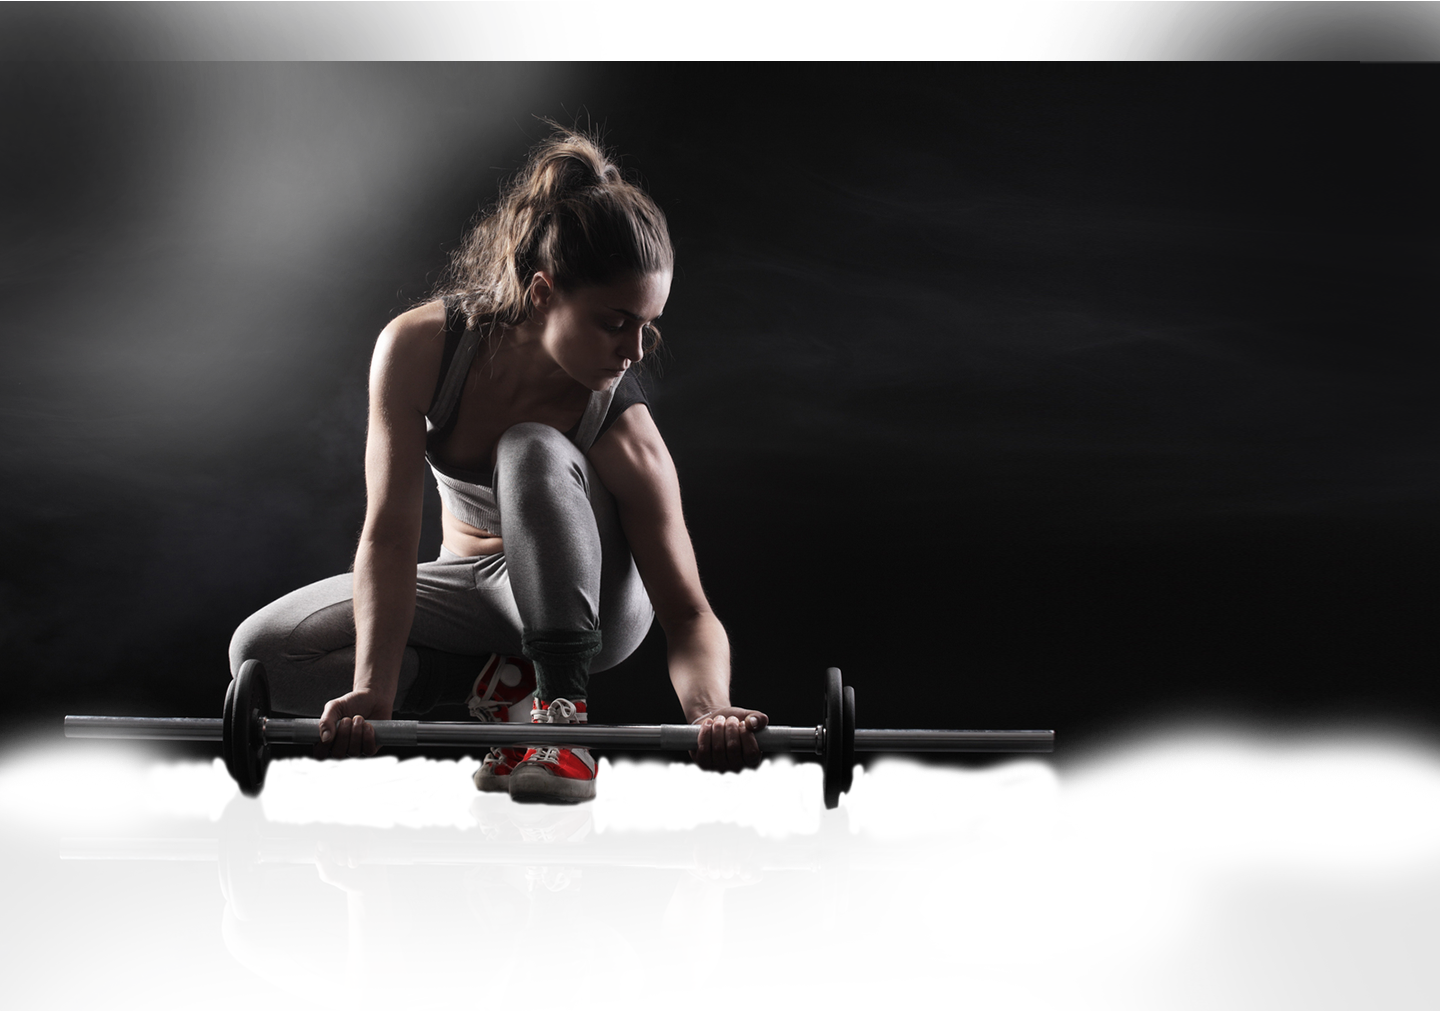
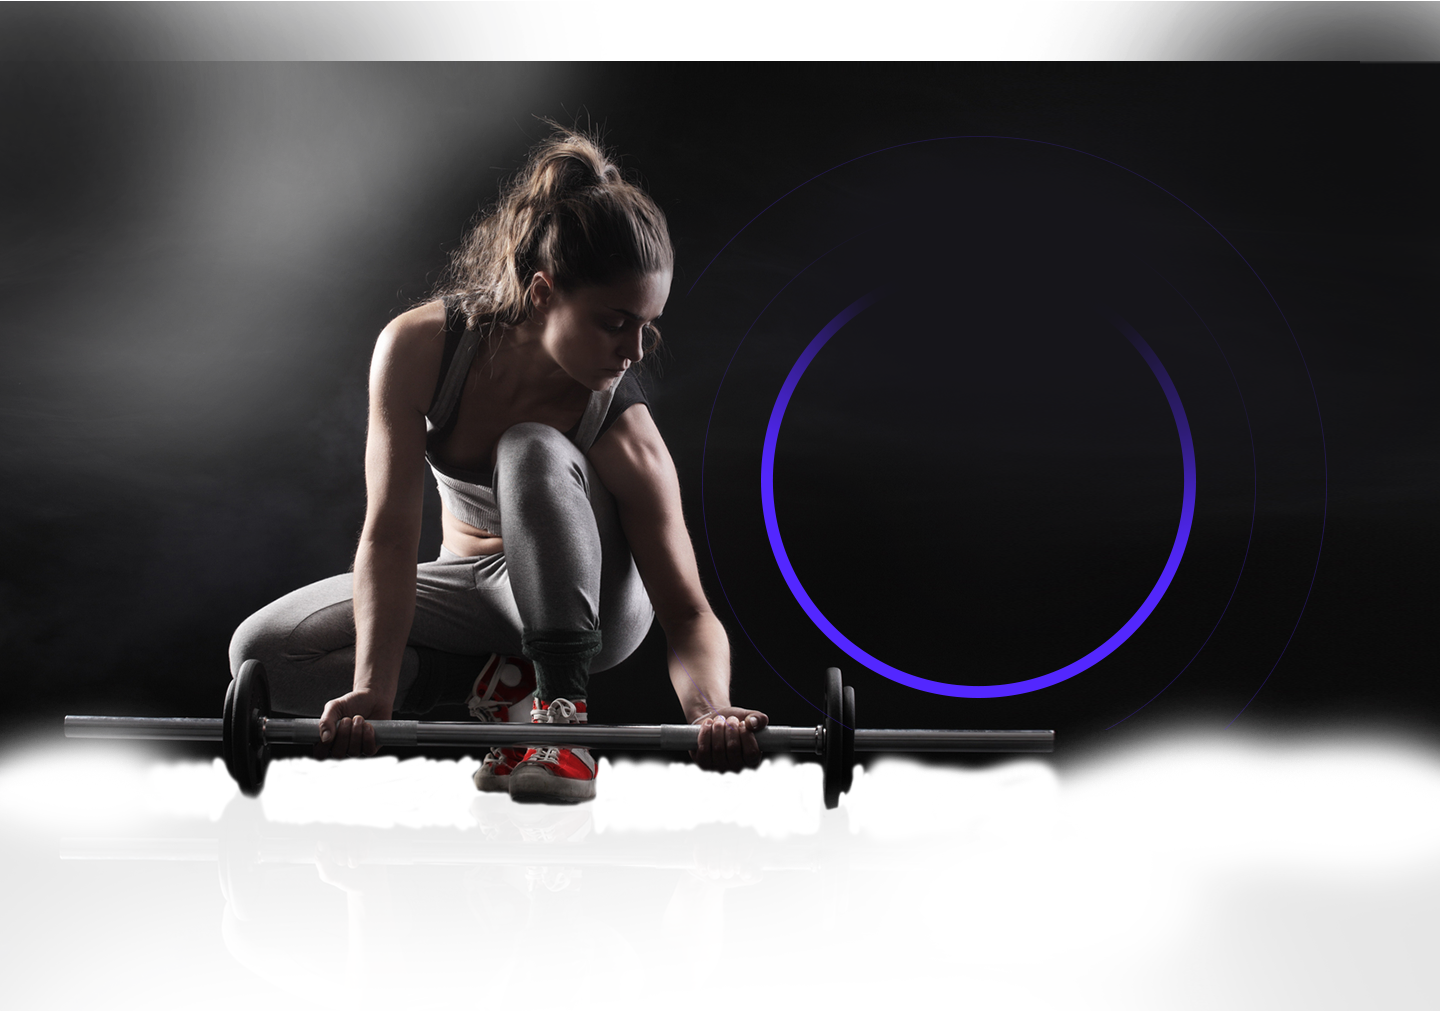
commit

diff --git a/app/sass/main.sass b/app/sass/main.sass
@@ -3,7 +3,7 @@
 @import "libs"
 
 ::placeholder
-	color: #666
+	color: #EDEDED
 
 ::selection
 	background-color: $accent
@@ -45,7 +45,6 @@ b, strong
 
 // style
 
-
 .first__screen
 	width: 100%
 	height: 100%
@@ -54,6 +53,8 @@ b, strong
 
 .content__block
 	width: 100%
+
+// header menu
 
 .header__menu
 	width: 100%
@@ -116,16 +117,187 @@ b, strong
 	line-height: 7.23px
 	letter-spacing: 0.12px
 
+//animation block circle
+
+.block__animation__circle
+	width: 384px
+	height: 200px
+	margin-top: 150px
+	margin-left: 150px
+	position: relative
+	
+.circle__animation
+	width: 15px
+	height: 15px
+	border: 5px solid #5327ff
+	box-shadow: 0 0 10px rgba(83, 39, 255, 0.6)
+	border-radius: 50%
+
+.one__animation 
+	position: absolute
+	left: 41%
+	top: 27%
+	animation: circle__animation 2s infinite alternate
+
+.two__animation
+	position: absolute
+	left: 85%
+	top: 45%
+	animation: circle__animation 1.8s infinite alternate
+
+.three__animation
+	position: absolute
+	left: 80%
+	top: 88%
+	animation: circle__animation 1.2s infinite alternate
+
+.four__animation
+	position: absolute 
+	left: 5%
+	top: 82%
+	animation: circle__animation 0.8s infinite alternate
+
+
+//aniamtion block
+
+@keyframes circle__animation 
+
+	0%
+		width: 15px
+		height: 15px
+	100%
+		width: 18px
+		height: 18px
+		box-shadow: 0 0 15px rgba(83, 39, 255, 0.8)
+
+// email block 
+
+.block__email__one
+	width: 100%
+	height: 400px
+	margin-top: 50px
+	display: flex 
+	justify-content: flex-end
+
+.header__block
+	width: 100%
+	display: flex 
+	justify-content: flex-end
+
+.header__block__text
+	width: 411px
+	span
+		width: 411px
+		color: #ffffff
+		font-family: "GilroyExtraBold"
+		font-size: 191px
+		font-weight: 400
+		line-height: 128.97px
+		
+.form__block 
+	width: 411px
+	height: 100px
+	margin-top: 25px
+	display: flex
+	justify-content: center
+
+.input__one 
+	width: 70%
+	background: none 
+	border: none
+	border-bottom: 2px solid rgba(83, 39, 255, 0.8)
+	font-family: "GilroyUltraLight"
+	color: #EDEDED
+
+.input__two
+	width: 60%
+	margin-top: 15px
+	background: none 
+	border: none
+	border-bottom: 2px solid rgba(83, 39, 255, 0.8)
+	font-family: "GilroyUltraLight"
+	color: #EDEDED
+		
+.email__button__block
+	width: 411px
+	height: 80px
+	margin-top: 15px
+	border-radius: 50px
+	background: url(../img/gradien__button.png)no-repeat center
+	background-size: 100% 100%
+	display: flex 
+	justify-content: center
+	align-items: center
+	color: #fff
+	font-size: 24px
+	font-family: "GilroyExtraBold"
+	cursor: pointer
+	&:hover 
+		color: #EDEDED
+		box-shadow: 0 0 20px rgba(83, 39, 255, 0.8)
+
+
+// block video
+
 .second__screen
 	width: 100%
 	height: 100%
-	background: url(../img/workoutmen_.png) no-repeat 
+	background: url(../img/workoutmen2.png) no-repeat center 
 	background-size: 100% 100%
+
+.video__block__info
+	width: 100%
+	height: 500px
+	margin-top: 100px
+	padding-left: 100px
+	position: relative
+
+.video__block__text
+	height: 260px
+
+.text__header 
+	height: 80px
+	margin-bottom: 10px
+	color: #fff
+	font-size: 68px
+	font-family: "GilroyExtraBold" 
+
+.video__block__text__info
+	margin-top: 10px
+	font-size: 16px
+	color: #fff
+	font-family: "GilroyUltraLight"
+	span
+		font-family: "GilroyExtraBold" 
+
+.video__block__icon
+	width: 270px
+	height: 270px
+	border-radius: 50%
+	position: absolute
+	top: 40%
+	left: 44%
+
+// block third content
+
 .third__screen
 	width: 100%
 	height: 100%
 	background: url(../img/background-3.png) no-repeat 
 	background-size: 100% 100%
+	position: relative
+
+.third__screen__action
+	width: 420px
+	height: 420px
+	position: absolute
+	top: 0
+	left: 40%
+	z-index: 10
+
+///////////////////////////////////////
+
+
 .fourth__screen
 	width: 100%
 	height: 100%
@@ -147,7 +319,7 @@ b, strong
 
 .right
 	// border: 1px solid red
-	left: 7.6%
+	left: 7.3%
 	padding-bottom: 5px
 
 a.active

diff --git a/app/index.html b/app/index.html
@@ -30,6 +30,7 @@
 
 	<!-- Custom HTML -->
 
+			<div class="wrapper">
 
 					<div id="fullpage">
 						<div class="section"><div class="first__screen">
@@ -61,27 +62,84 @@
 											</div>
 										</div>	
 									</div>
+									<div class="col-xl-6">
+										<div class="block__animation__circle">
+											<div class="circle__animation one__animation"></div>
+											<div class="circle__animation two__animation"></div>
+											<div class="circle__animation three__animation"></div>
+											<div class="circle__animation four__animation"></div>
+										</div>
+									</div>
+									<div class="col-xl-6">
+										<div class="block__email__one">
+
+											<div class="header__email">
+												<div class="header__block">
+													<div class="header__block__text">
+														<img src="img/Спортивнi.png" alt="#">
+														<br>
+														<span>нoги</span>
+													</div>																
+												</div>
+
+												<div class="form__block">
+													<form action="#">
+														<input class="input__one" type="text" placeholder="name">
+														<input class="input__two" type="text" placeholder="e-mail">
+													</form>
+												</div>
+
+												<div class="email__button__block">
+													Хочу спортивнi нiжки
+												</div>
+
+											</div>
+										</div>
+									</div>
 								</div>
 							</div>
 						</div></div>
 						<div class="section"><div class="second__screen">
 							<div class="container">
 								<div class="row">
-									<div class="col-xl-12">
-										<div class="content__block block__video">
-											section__2
+									<div class="col-xl-6">
+										<div class="video__block__info">
+											<div class="video__block__text">
+
+												<div class="text__header">
+													БО В НАС
+												</div>
+
+												<div class="video__block__text__img">
+													<img src="img/Класно.png" alt="#">
+												</div>
+
+												<div class="video__block__text__info">
+													Дидись дви хвихини як мы працуемо
+													<br>
+													i обирай <span>безкоштовный план</span>
+												</div>
+
+											</div>
+											<div class="video__block__icon">
+												<img src="img/Polygon_1.png" alt="#">
+											</div>
 										</div>
 									</div>
 								</div>
 							</div>
 						</div></div>
 						<div class="section"><div class="third__screen">
+							<div class="third__screen__action">
+								<img src="img/Banner.png" alt="#">
+							</div>
 							<div class="container">
 								<div class="row">
-									<div class="col-xl-12">
-									<div class="content__block">
-										section__3
+									<div class="col-xl-6">
+									
 									</div>
+									<div class="col-xl-6">
+									
 									</div>
 								</div>
 							</div>
@@ -110,7 +168,7 @@
 						</div></div>
 					</div>
 					
-
+		</div>
 		
 
 	<script src="js/scripts.min.js"></script>

diff --git a/app/sass/_media.sass b/app/sass/_media.sass
@@ -26,6 +26,8 @@
 
 // ≤992px
 +media-breakpoint-up(lg)
-
+  
 // ≤1200px
 +media-breakpoint-up(xl)
+  
+ 
